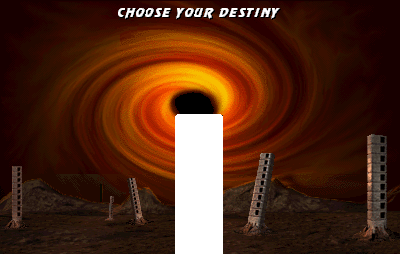
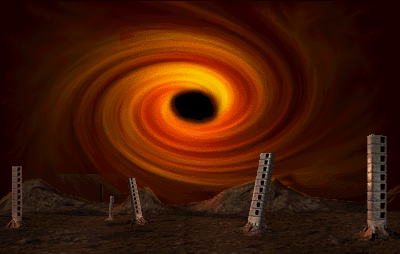
aesthetic fixes

Changed region(s): [[0.42, 0.4409, 0.57, 1.0], [0.27, 0.0276, 0.72, 0.0827]]

diff --git a/template.html b/template.html
@@ -15,9 +15,17 @@
         display: grid;
         justify-items: center;
       }
-      .pj-container {
+      .choose-container {
+        position: fixed;
+        top: 1em;
+        left: 50%;
+        transform: translate(-50%, 0%);
+        z-index: 2;
+      }
+     .pj-container {
         position: absolute;
-        left: 35em;
+        right: 50%;
+        padding-right: 2em;
         top: {{dollarHeight}}em;
         z-index: 1;
       }
@@ -36,6 +44,9 @@
       <img src="assets/bloque-2.png" />
       <img src="assets/bloque-1.png" />
       <img src="assets/piso.png" />
+    </div>
+    <div class="choose-container">
+      <img src="assets/choose.png" />
     </div>
     <div class="pj-container">
       <img src="assets/dolar.png" />
